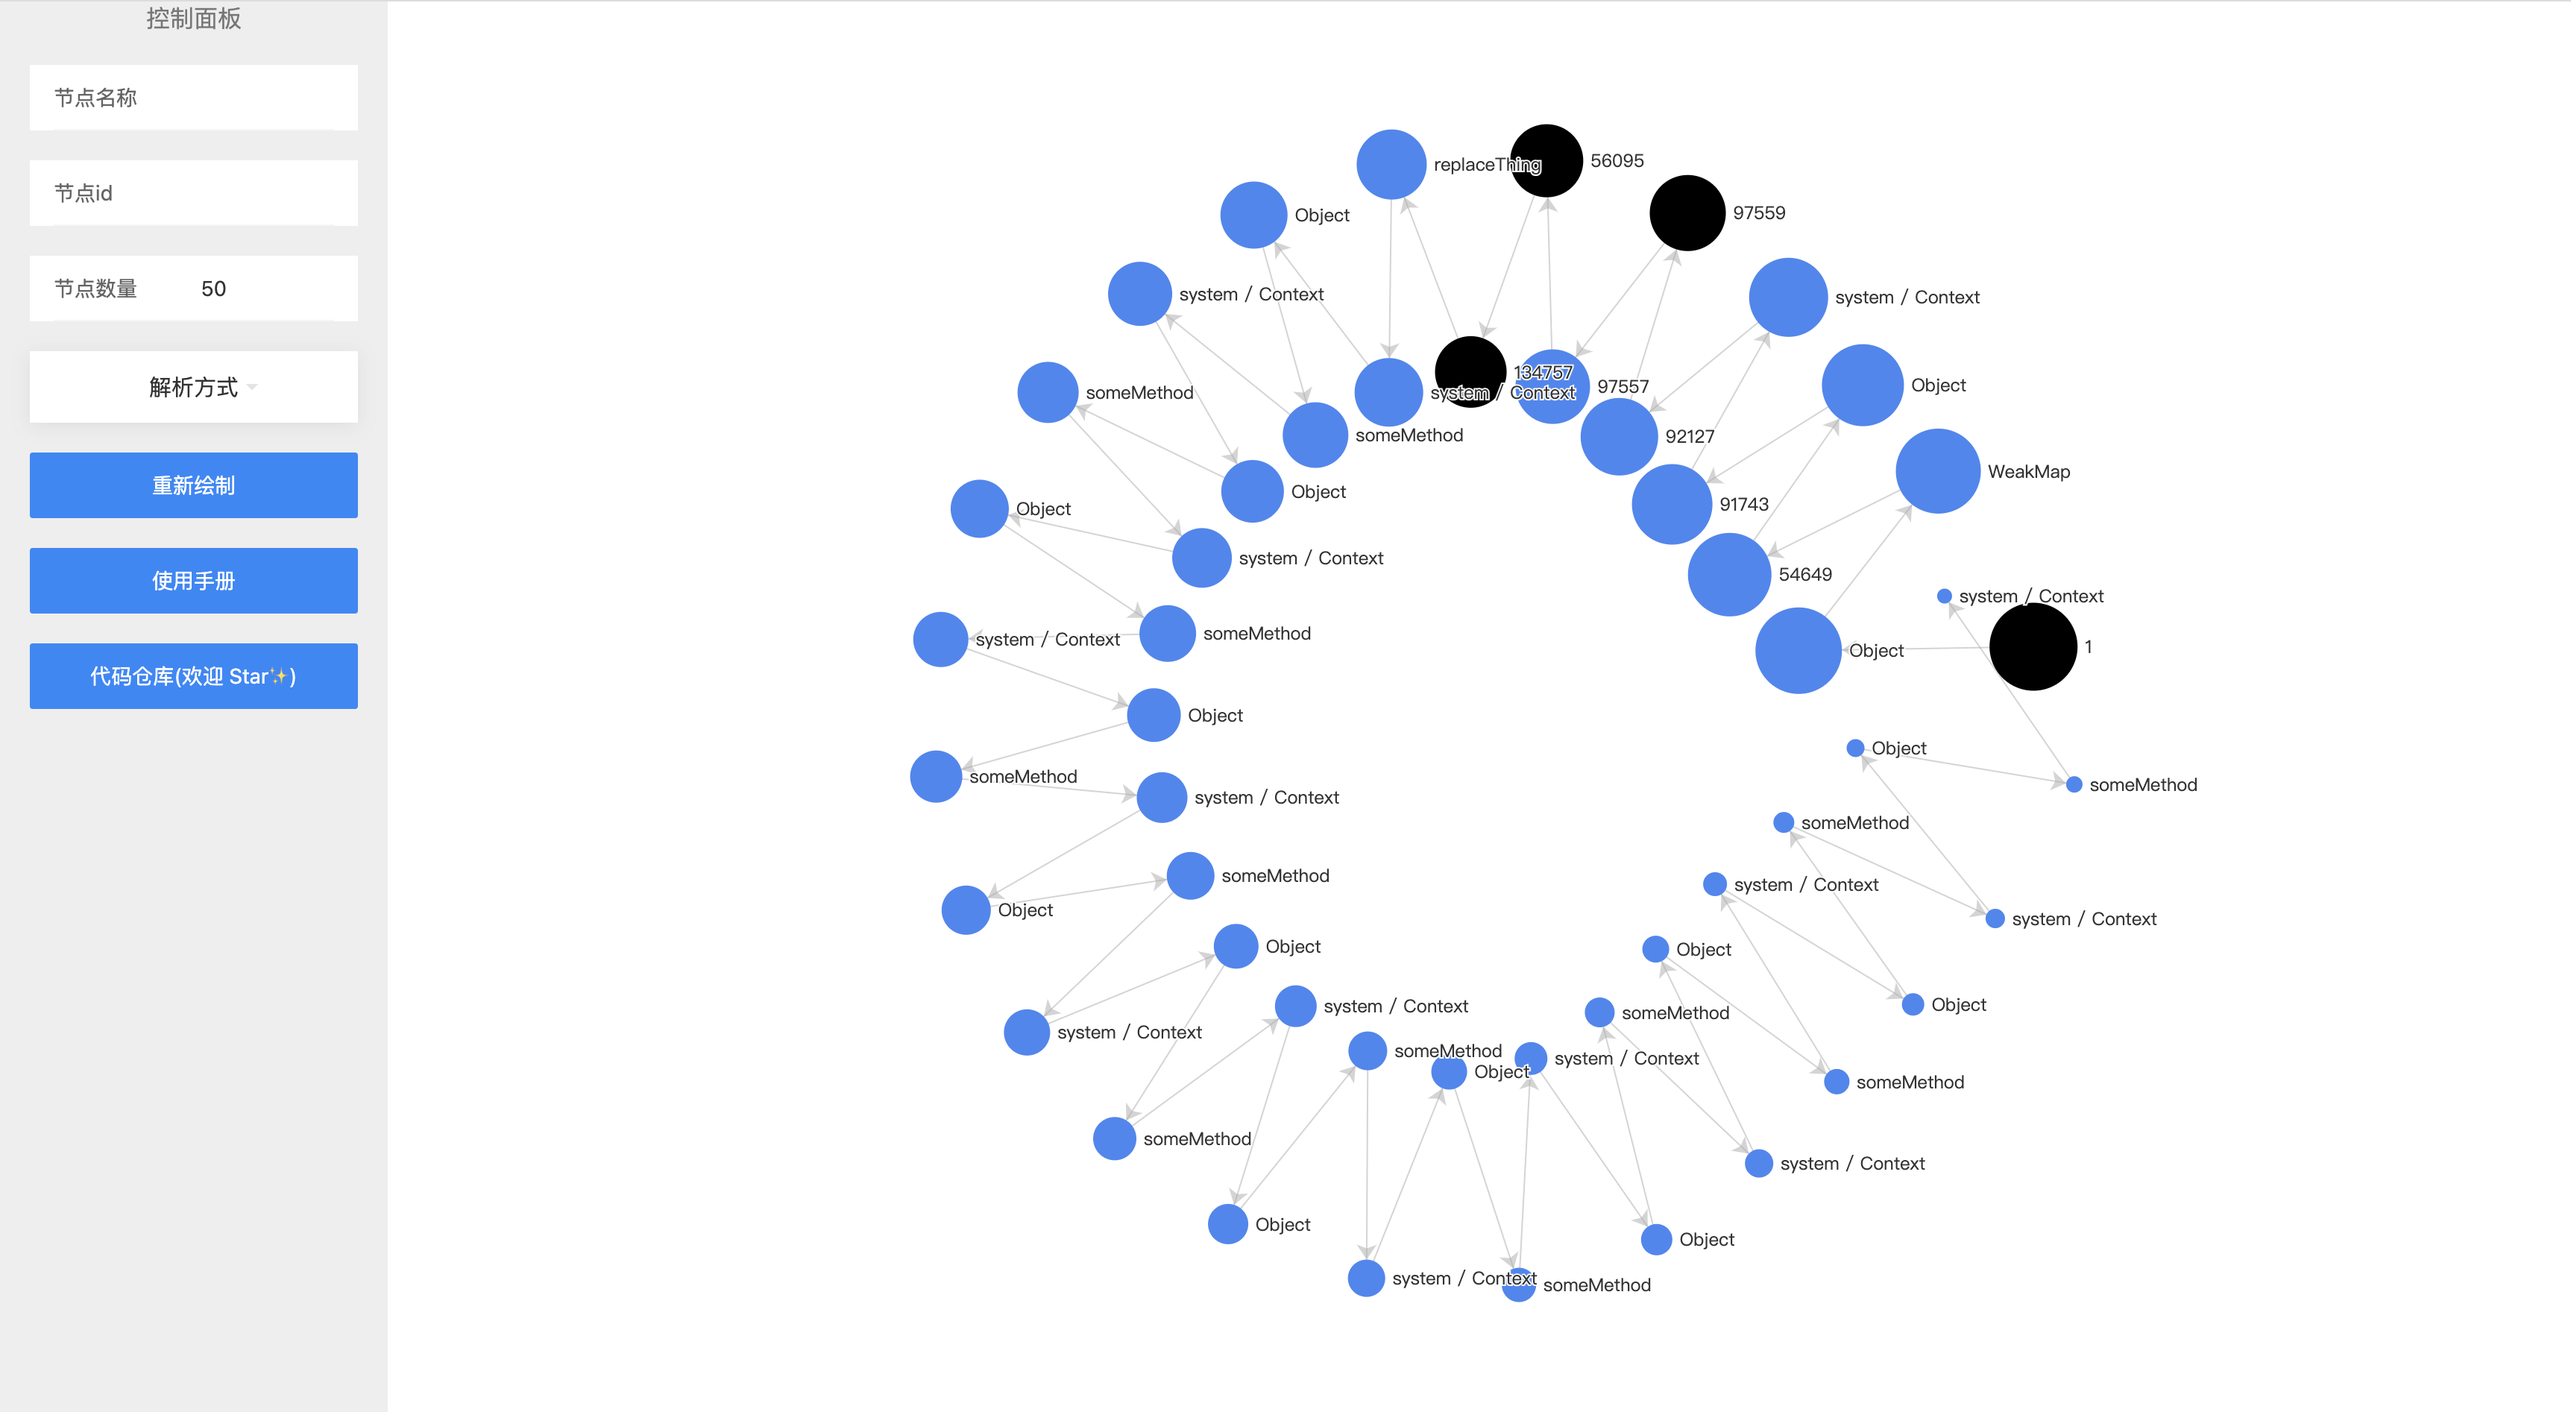
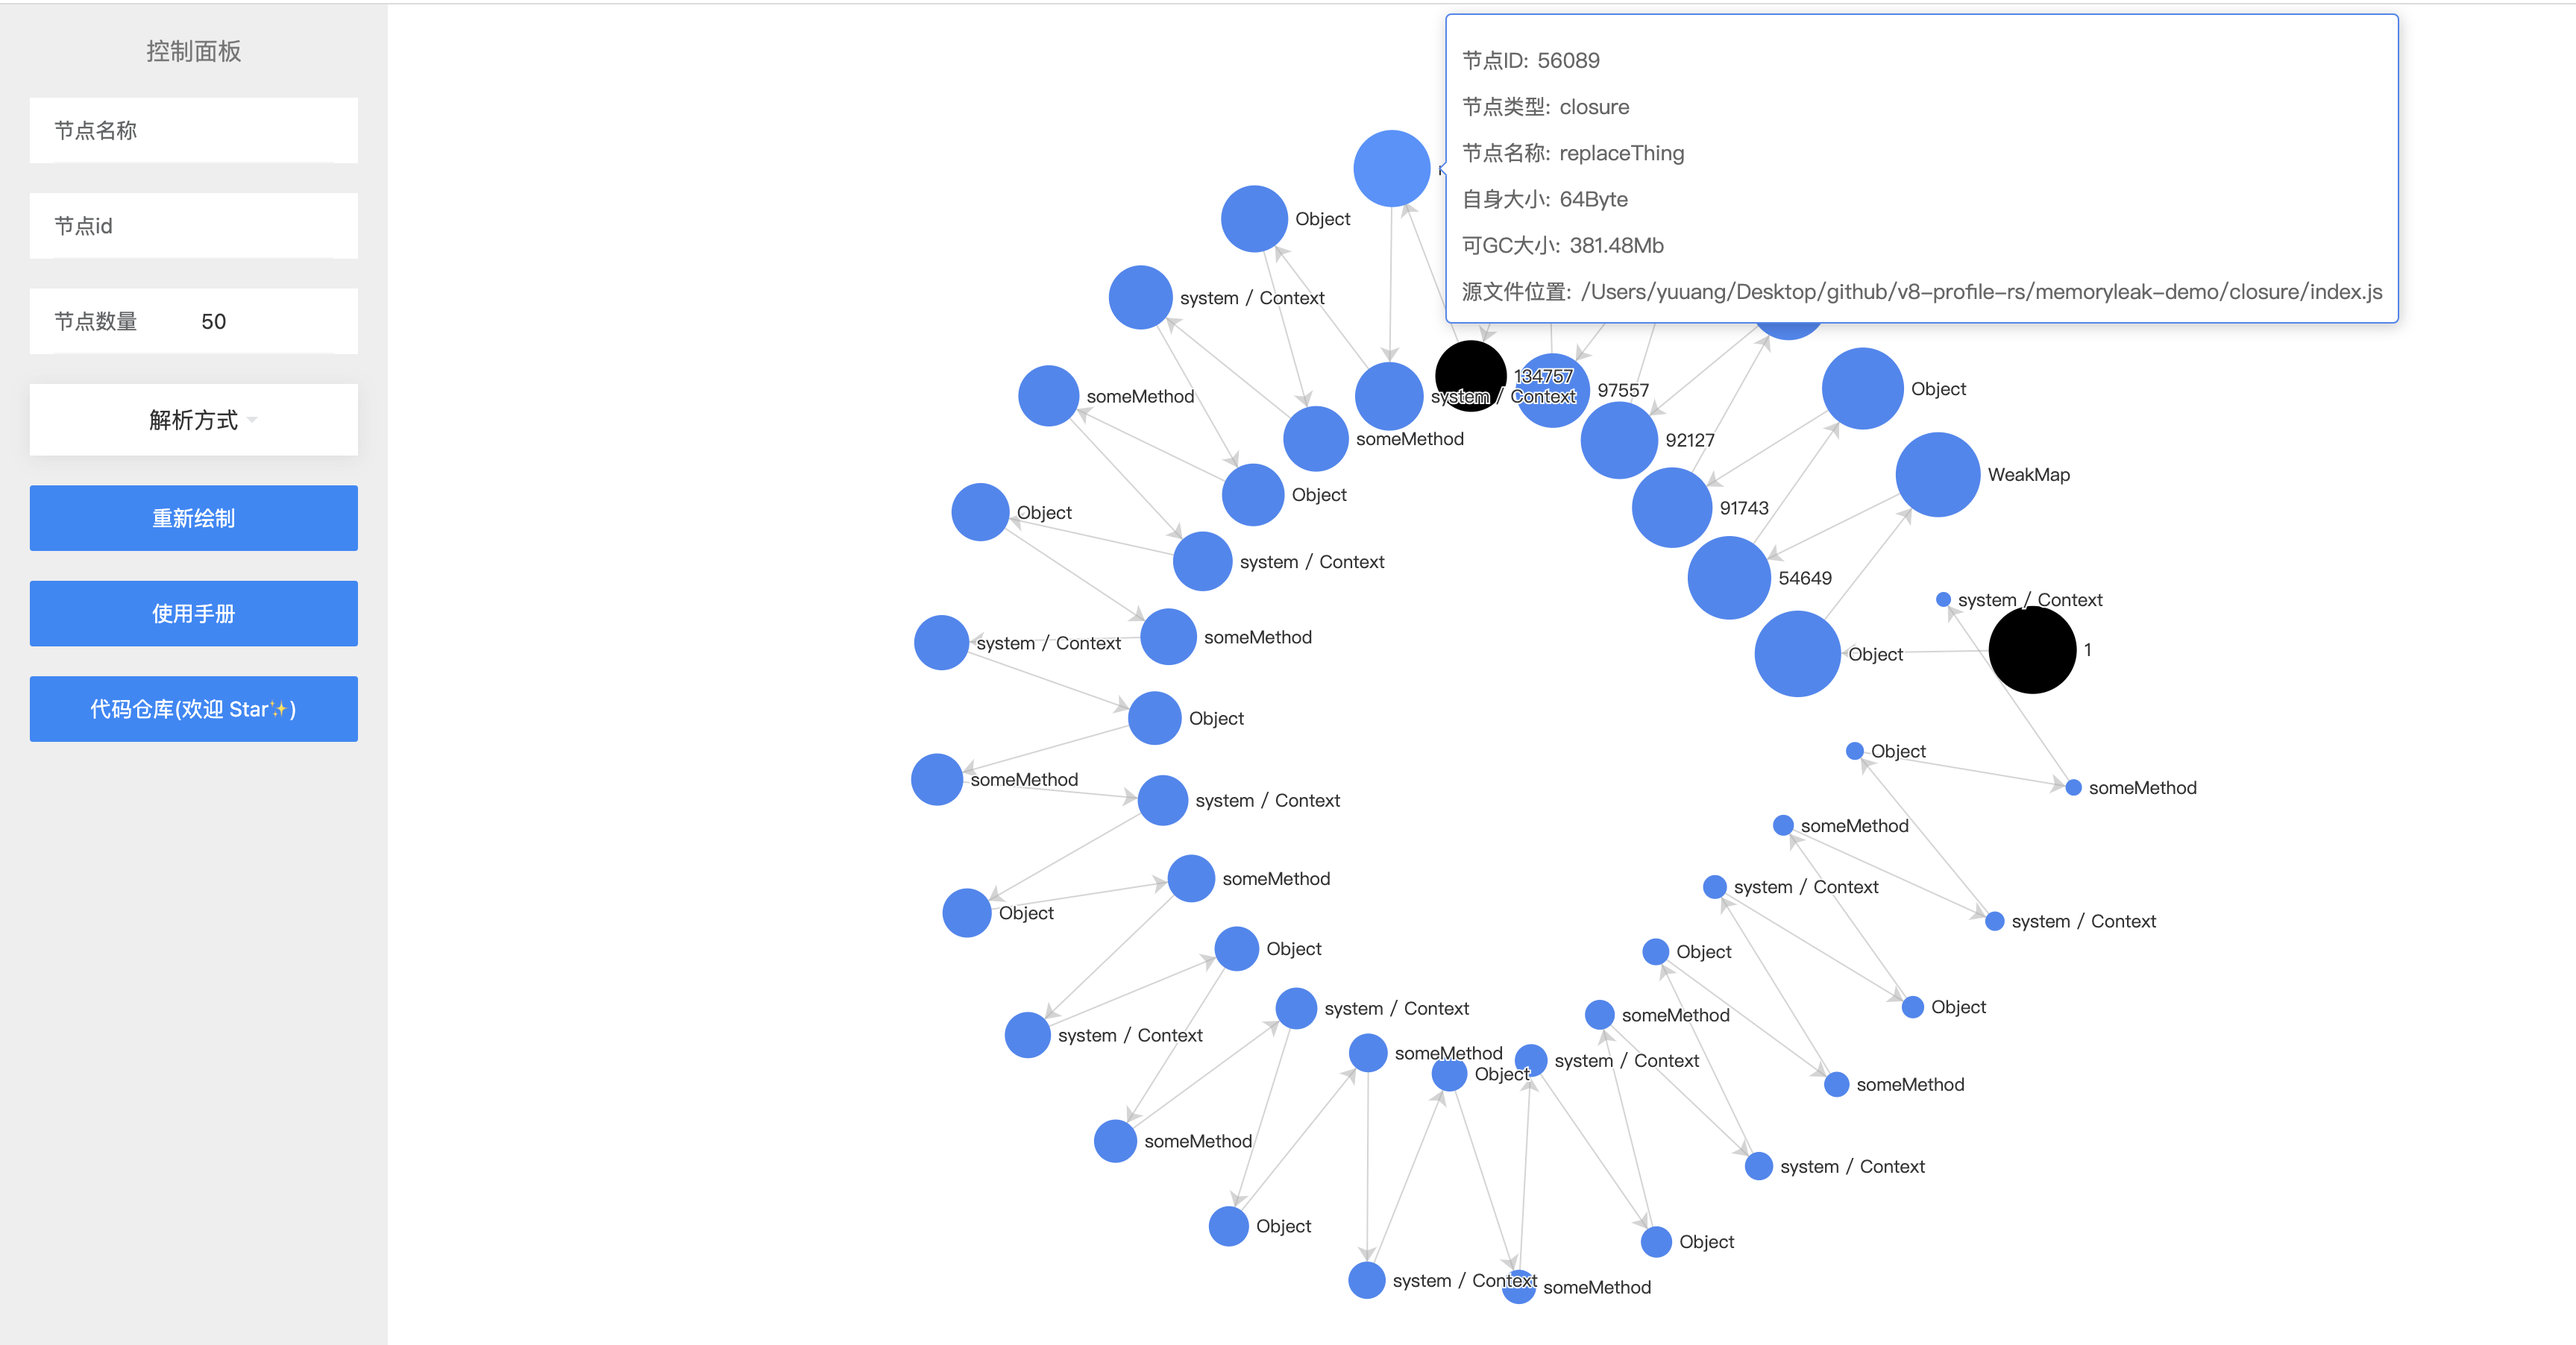
docs: update docs.md

diff --git a/example/web/components/layout/App.vue b/example/web/components/layout/App.vue
@@ -111,7 +111,11 @@ watch(router.currentRoute, (to) => {
 const idOrdinal: Record<number | string, number> = {}
 
 const defaultDemo = async () => {
-  await parse(defaultDemoStr)
+  const parseResult = await parse(defaultDemoStr)
+  parseResult.forEach((item, index) => {
+    idOrdinal[item.id] = index
+  })
+  confirm()
 }
 const upload = async (e: any) => {
   //@ts-expect-error
@@ -131,6 +135,9 @@ const upload = async (e: any) => {
     const [additionalNode, biggerNode] = await parseMultiply([smallRes, bigRes])
     compare.value.is = true
     compare.value.addtionalIndex = additionalNode.length
+    bigRes.forEach((item, index) => {
+      idOrdinal[item.id] = index
+    })
     store.setData({
       data: additionalNode.concat(biggerNode)
     })
@@ -139,6 +146,9 @@ const upload = async (e: any) => {
   }
   const result = await read(file[0])
   const parseResult = await parse(result)
+  parseResult.forEach((item, index) => {
+    idOrdinal[item.id] = index
+  })
   store.setData({
     data: parseResult
   })
@@ -177,7 +187,7 @@ const parseMultiply = (arr: Array<Node[]>) => {
       }
     }
   }
-  return [additionalNode.sort(sortByRs).slice(0, Math.ceil(renderOptions.maxNodes / 2)), biggerNode.sort(sortByRs).slice(0, Math.ceil(renderOptions.maxNodes / 2))]
+  return [additionalNode, biggerNode]
 }
 
 const parse = async (result: string): Promise<Node[]> => {
@@ -203,9 +213,6 @@ const parse = async (result: string): Promise<Node[]> => {
       parseResult = res.data
     }
     store.setLoading('finish')
-    parseResult.forEach((item, index) => {
-      idOrdinal[item.id] = index
-    })
     return parseResult
   } catch (error) {
     console.log(error)
@@ -236,7 +243,7 @@ const byteToMb = (byte: number | string) => {
   return (val / oneMb).toFixed(2) + 'Mb'
 }
 const getNodeById = (nodeId: number) => {
- return store.data[idOrdinal[nodeId]]
+  return store.data[idOrdinal[nodeId]]
 }
 renderOptions.tooltip = {
   trigger: 'item',
@@ -268,7 +275,7 @@ renderOptions.tooltip = {
         }
       }
     }
-    const { compareType,biggerNumber } = data.itemStyle
+    const { compareType, biggerNumber } = data.itemStyle
     return `<div class="tooltipText">
       ${compareType ? ` <div class="item red">
         <div class="name">比较类型: ${compareType === 'addtional' ? '新增节点' : '可GC大小增大节点'} </div>
@@ -349,6 +356,7 @@ provide('renderOptions', renderOptions)
   .title {
     color: rgba(0, 0green, 0, .5);
     margin-bottom: 20px;
+    margin-top: 20px;
   }
 
   .inputFile {

diff --git a/README.md b/README.md
@@ -114,7 +114,7 @@ export enum NodeType {
 
 ### 代码实战
 
-以下列经典的内存泄漏代码为例子，下面来讲述如何运用本工具来发现内存泄漏
+以下列经典的内存泄漏代码为例子，下面来讲述如何运用本工具来发现内存泄漏。
 
 ```js
 const express = require('express');
@@ -177,11 +177,9 @@ isolate->GetHeapProfiler()->TakeHeapSnapshot(Nan:: EmptyString());
 
 在 [在线工具](https://v8.ssr-fc.com/) 中，我们可以通过选择本地文件进行上传。或者如果你想体验本工具的能力。我们已经默认内置了上述代码生成的内存快照进行分析。
 
-点击左侧查看默认示例，我们将会通过上述代码的内存快照来生成图示。目前的计算时间根据内存快照的大小，大概需要 `3s` 左右的时间，目前的算法还有一些可以优化的空间，我们将会在之后的版本中不断的优化性能。
+点击左侧查看默认示例，我们将会通过上述代码的内存快照来生成图示。目前的计算时间根据内存快照的大小，原生的 `Rust` 代码大概需要运行 `0-6s` 经过 `Webassembly`的损耗后大概需要 `3-20s` 左右的时间，目前的算法还有一些可以优化的空间，我们将会在之后的版本中不断的优化性能。
 
-![](https://res.wx.qq.com/shop/public/d4676114-a1c9-4c36-9d5f-5df7bb57b4e2.png)
-
-我们在左侧提供了控制面板，提供了诸多控制图表绘制参数的控制能力，通过控制面板我们可以轻松的过滤无关信息来获取想要的信息同时可以获得流畅的绘制性能。
+在控制面板中我们提供了诸多控制图表绘制参数的控制能力，通过这些功能我们可以轻松的过滤无关信息来获取想要的信息同时可以获得流畅的绘制性能。
 
 ### 排列节点
 
@@ -189,16 +187,16 @@ isolate->GetHeapProfiler()->TakeHeapSnapshot(Nan:: EmptyString());
 
 在上面我们提到了，容易发生内存泄露的节点往往是那些 `Retained Size` 很大的节点。所以我们默认按照 `Retained Size` 通过箭头的顺序 `从大到小` 排列。选取前 `50(数量可修改)`个节点进行展示。
 
-![](https://res.wx.qq.com/shop/public/ffcb9671-ba3f-40d5-a8f2-8561666d361f.png)
+![](https://res.wx.qq.com/shop/public/7302809c-d577-4d4b-907e-9f055365afb1.png)
 
-当鼠标 hover 到节点时，我们将会展示节点的详细信息包括 `节点id`、`节点名称`、`节点大小`、`节点可被回收大小`、`节点源码位置(如有)`
+当鼠标 hover 到节点时，我们将会展示节点的详细信息包括 `节点id`、`节点名称`、`节点大小`、`节点可被回收大小`、`节点源码位置(如能找到)`
 
 
 节点面积越大，代表可被回收的大小越大
 
 一般面积最大的节点都是各种 `GC` 根节点。这些节点的类型是 `Synthetic` 一般是 `C++` 层代码合成的，一般无需特别关注。这里用`黑色节点`表示，我们在关注图表时，将优先关注 `蓝色节点`。我们之后将提供更加精确的筛选手段。
 
-通过图表我们可以看到在业务节点中最大的节点名是 `someMethod` 的节点，并且存在了很多个。这时候我们点击节点，将会展示其的具体引用关系。
+通过图表我们可以看到在业务节点中最大的节点名是 `replceThing`，`someMethod` 的节点，并且`someMethod`节点存在了很多个。这时候我们点击节点，将会展示其的具体引用关系。
 
 ### 查看节点引用关系
 
@@ -218,9 +216,29 @@ isolate->GetHeapProfiler()->TakeHeapSnapshot(Nan:: EmptyString());
 
 ![](https://res.wx.qq.com/shop/public/fd065136-9189-4844-97ba-a650fec16427.png)
 
-至此，我们完成了一次完整的内存泄漏分析过程。其他场景的内存泄漏分析欢迎各位开发者自行动手发掘。
+## 快照对比
 
-在之后我们也会补充更加复杂的场景该如何去分析。控制面板的功能也会不断的进行完善。
+通过快照对比我们可以迅速找到在两次快照中被创建的新节点，以及相同节点但是可GC大小增大的节点。这些节点往往代表着内存泄漏。
+
+同时上传 `small-closure.heapsnahshot` 和 `big-closure.heapsnahshot`
+
+![](https://res.wx.qq.com/shop/public/a5f3ad4e-c616-4518-9d53-5258a7e74874.png)
+
+默认的对比方式是`新增节点`。同样我们将会按照 `retained_size` 的大小，从大到小排列新增节点。可以看到新增的节点中与业务相关的节点，多了很多 `someMethod` 节点。
+
+为了更好的看到占用内存增大的节点，这时候我们上传 `medium-closure.heapsnahshot` 和 `big-closure.heapsnahshot`
+
+将对比类型改为 `增长节点` 并点击重新绘制
+
+![](https://res.wx.qq.com/shop/public/99d44ecf-b531-4ea6-90f7-86a9d960da88.png)
+
+此时，我们将会比较相同的节点，在两次快照中，可被 GC 回收大小的增长。并按照大小排列。
+
+可以看到 `replaceThing` 这个业务代码中的节点，在请求次数从 `40` 次到 `50`次的时候可GC大小增长了 `76MB`，存在内存泄漏的可能。
+
+至此，我们的一次分析内存泄漏的过程就完成了。可以看到简单的内存泄漏，我们只需要上传一次快照文件就可以基本定位泄露位置。复杂的内存泄漏情况我们可以通过上传前后两次快照的对比来找到变动的节点。
+
+我们将会在之后持续优化性能以及增加新的分析能力，敬请期待。欢迎 Star ✨
 
 ## 自定义能力分析
 
@@ -237,7 +255,7 @@ import {
     parse_v8_snapshot
 } from 'v8-profiler-rs/v8_profiler_rs'
 
-const snapshot: Node[] = parse_v8_snapshot(heapsnapshot as string)
+const snapshot = parse_v8_snapshot(heapsnapshot as string)
 ```
 
 ### In Browser
@@ -253,7 +271,7 @@ $ npm i v8-profiler-rs-web
     } from 'v8-profiler-rs-web'
 
     init().then(() => {
-        const snapshot: Node[] = parse_v8_snapshot(heapsnapshot as string)
+        const snapshot = parse_v8_snapshot(heapsnapshot as string)
     })
 </script>
 ```
@@ -268,5 +286,6 @@ $ npm i v8-profiler-rs-node
 const {
     parse_v8_snapshot
 } = require('v8-profiler-rs-node')
-const snapshot: Node[] = parse_v8_snapshot(heapsnapshot as string)
+const snapshot = parse_v8_snapshot(heapsnapshot as string)
 ```
+### 
